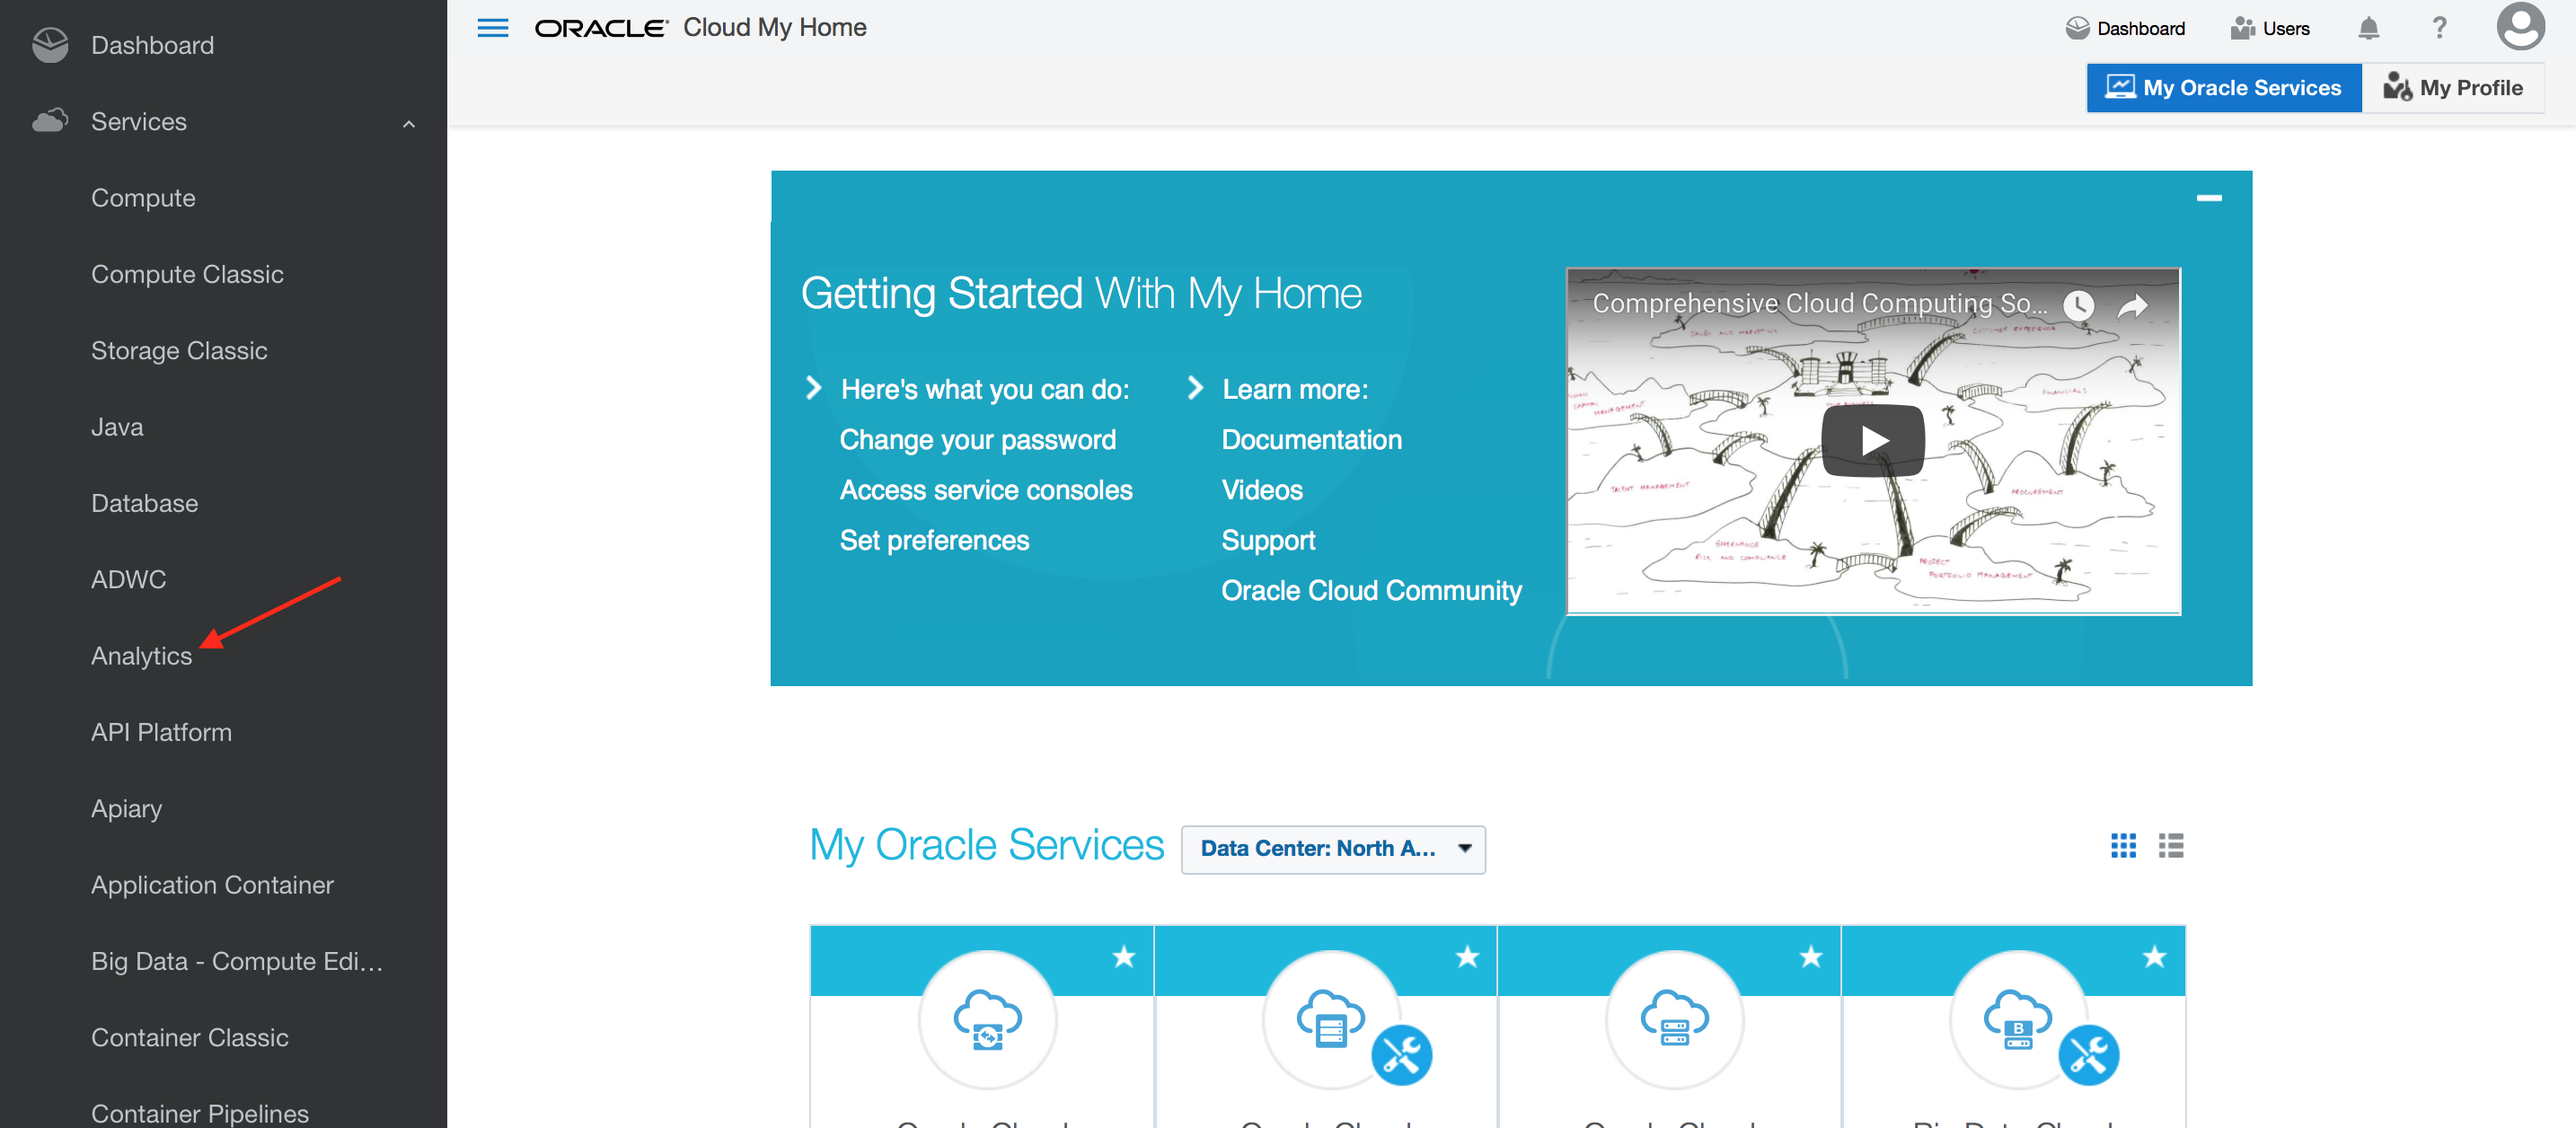
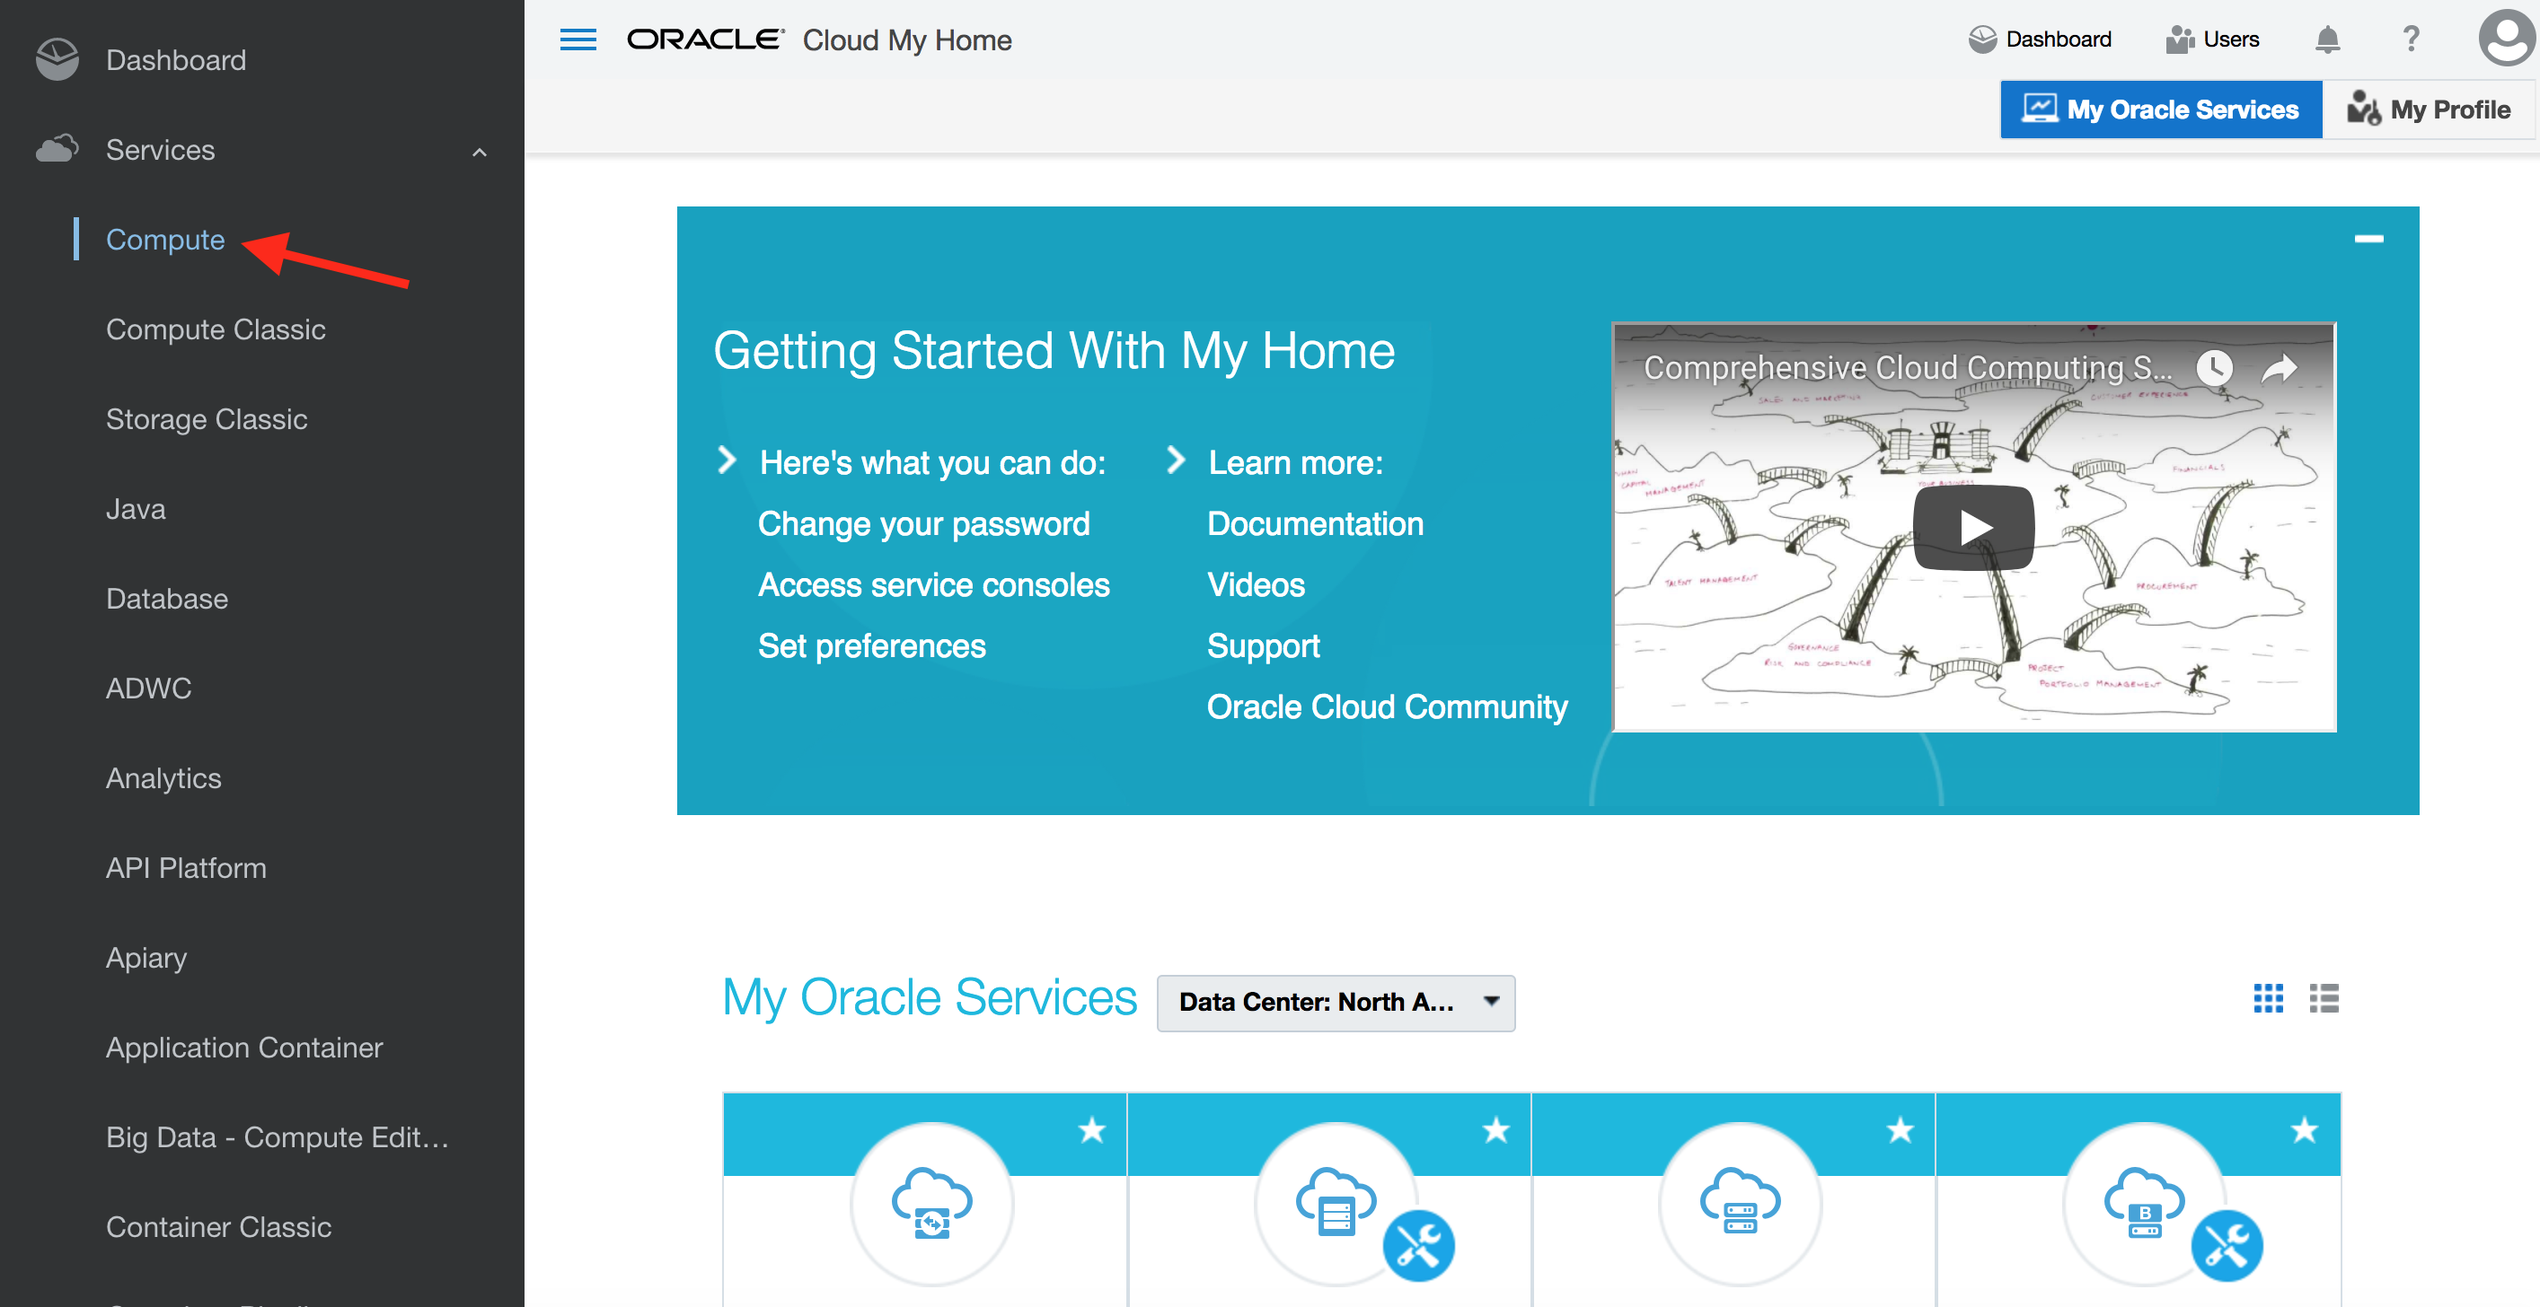
Revised

diff --git a/IDCS100.md b/IDCS100.md
@@ -23,7 +23,7 @@ Then it will walk you through the various capabilities of **Oracle Identity Clou
 - Configure multi-factor authentication `<--Persona: Administrator`
 - Activate account `<--Persona: End-User`
 - Enroll in multi-factor authentication `<--Persona: End-User`
-- In-built integration with Oracle cloud services `<--Persona: End-User`
+- Built-in integration with Oracle cloud services `<--Persona: End-User`
 
 
 ### (Optional) IDCS - advanced
@@ -307,17 +307,16 @@ For the exercise we will be manually creating a user from admin console.
 
 ![](images/100/100-8-2.png)	
 	
-- Click on the service **Analytics**. 
+- Click on the service **Compute** which is Oracle's **IAAS** serice (Infrastructure-As-A-Service)
 
 ![](images/100/100-8-3.png)
 
-- On the **Analytics** console, click on **Go to Console**
 
-![](images/100/100-8-4.png)
-
-- Observe that the logged in user has successfully single signed-on to the **Analytics** service console
+- Observe that the logged in user has successfully single signed-on to Oracle's **IAAS** service console.
 
 ![](images/100/100-8-5.png)
+
+- Explore various tabs on the IAAS service console.
 
 - Congratulations, you completed the IDCS overview hands-on lab.
 
